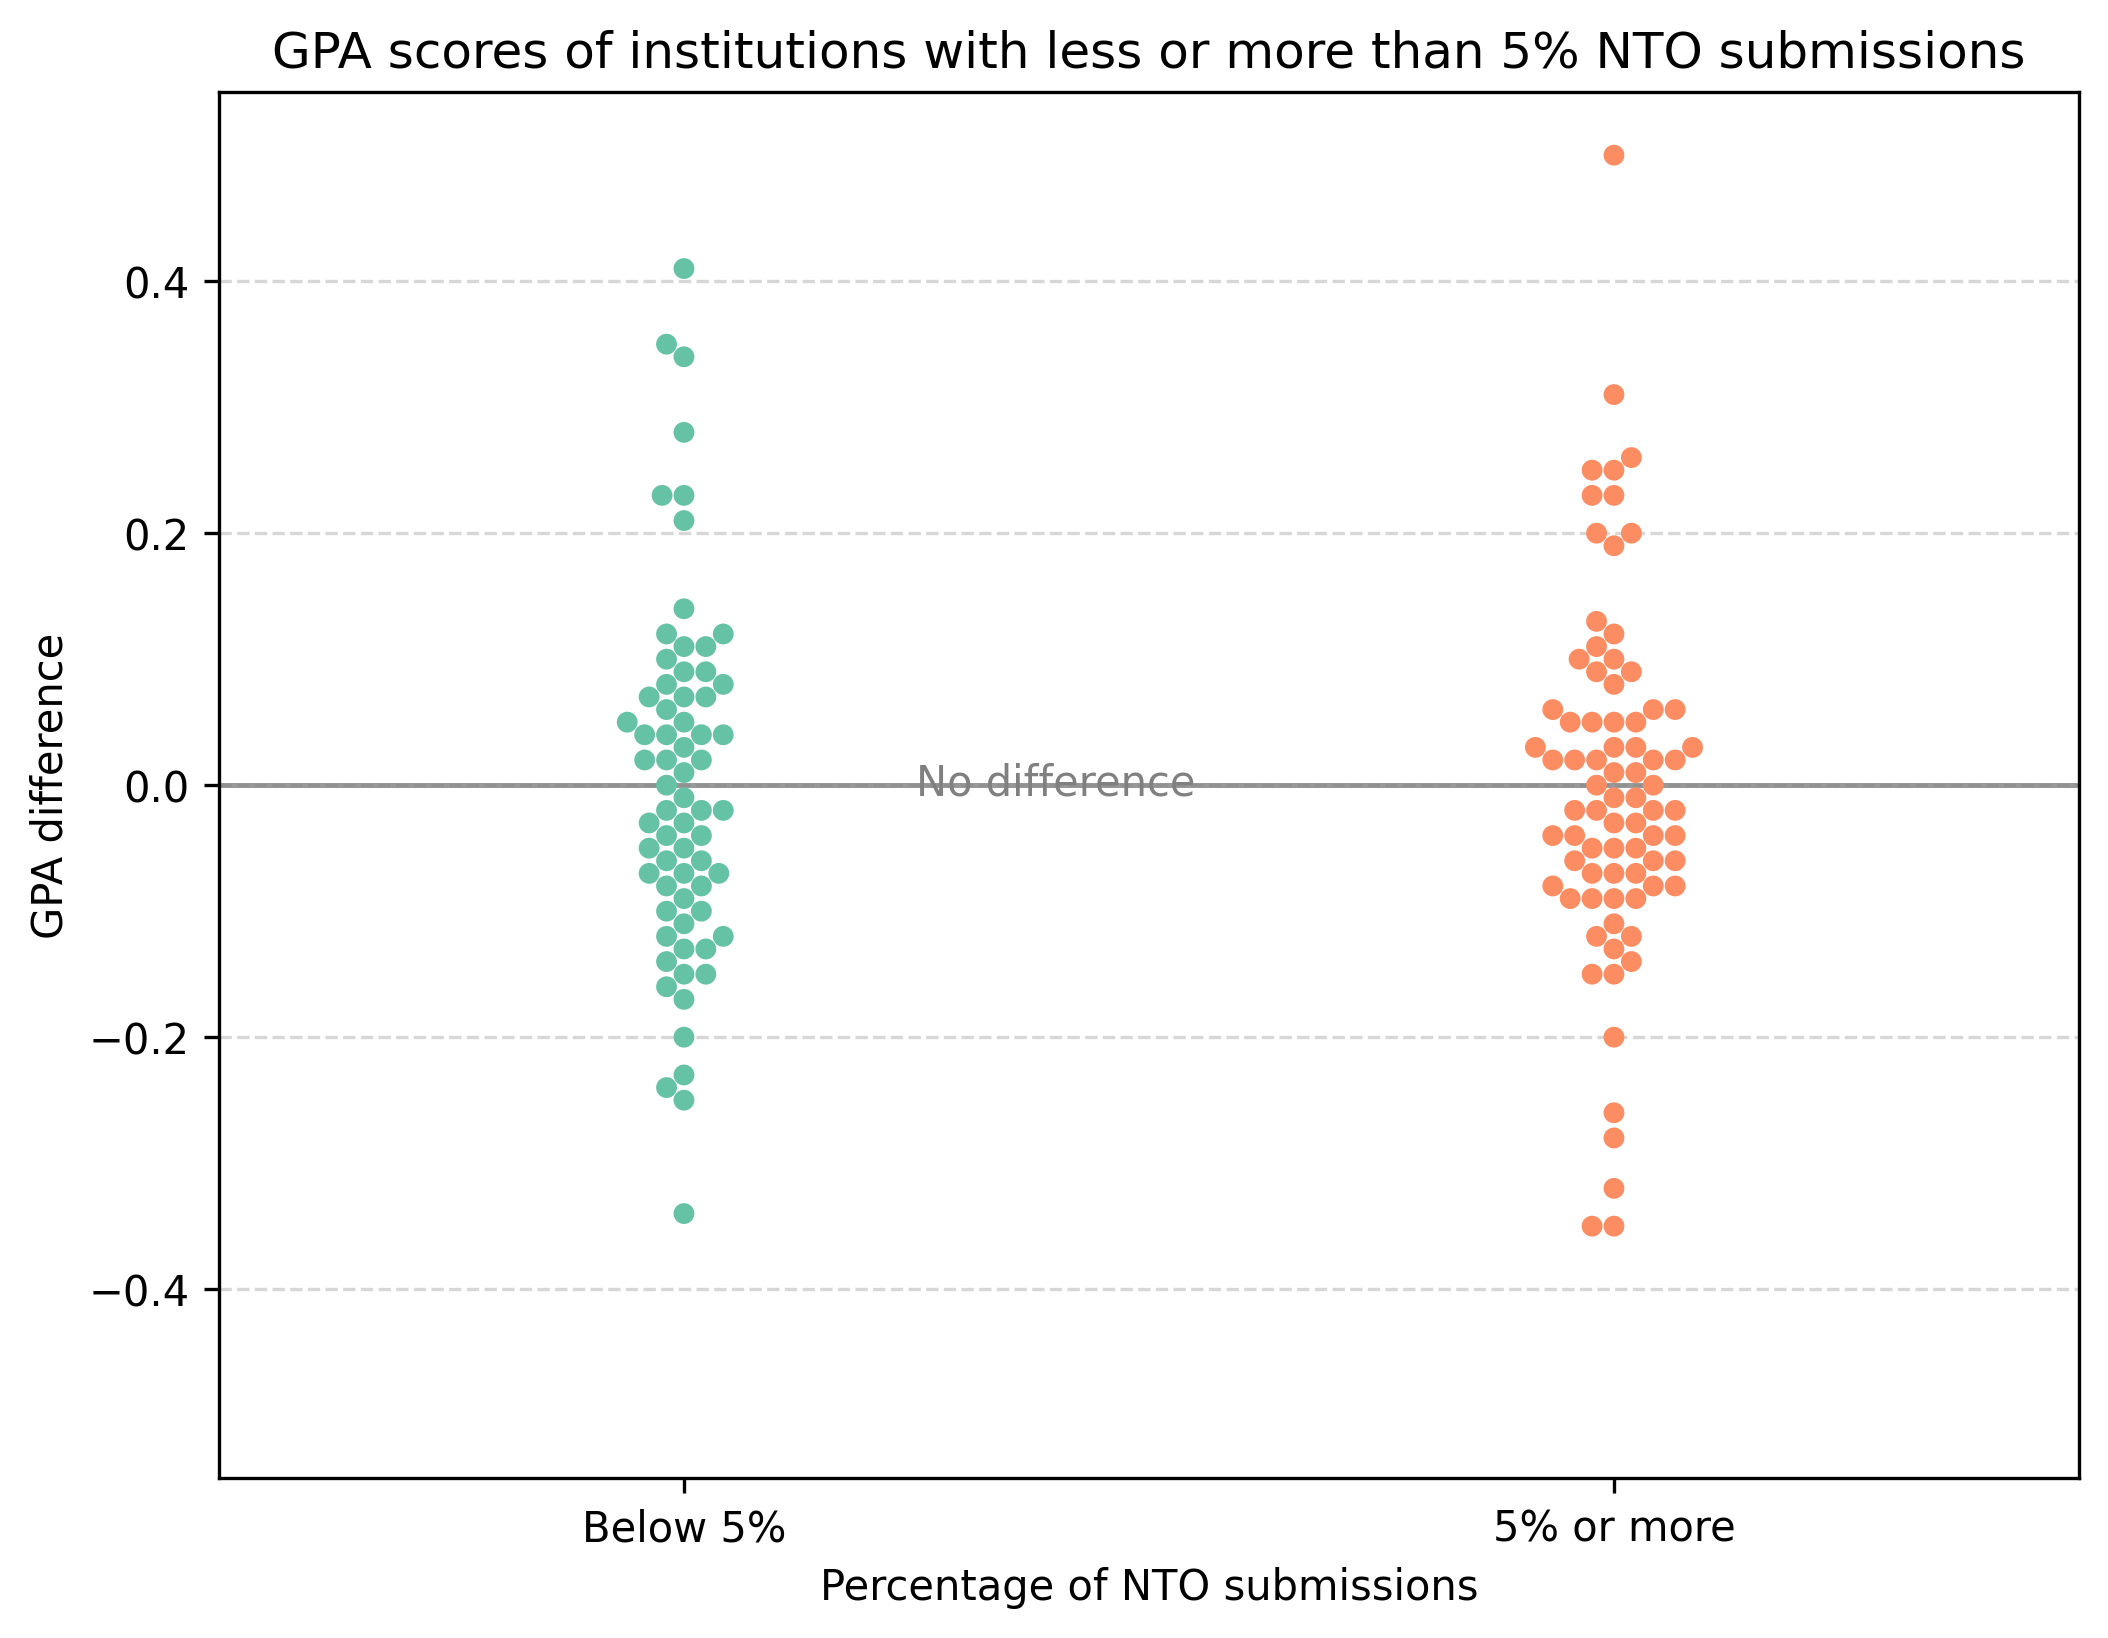
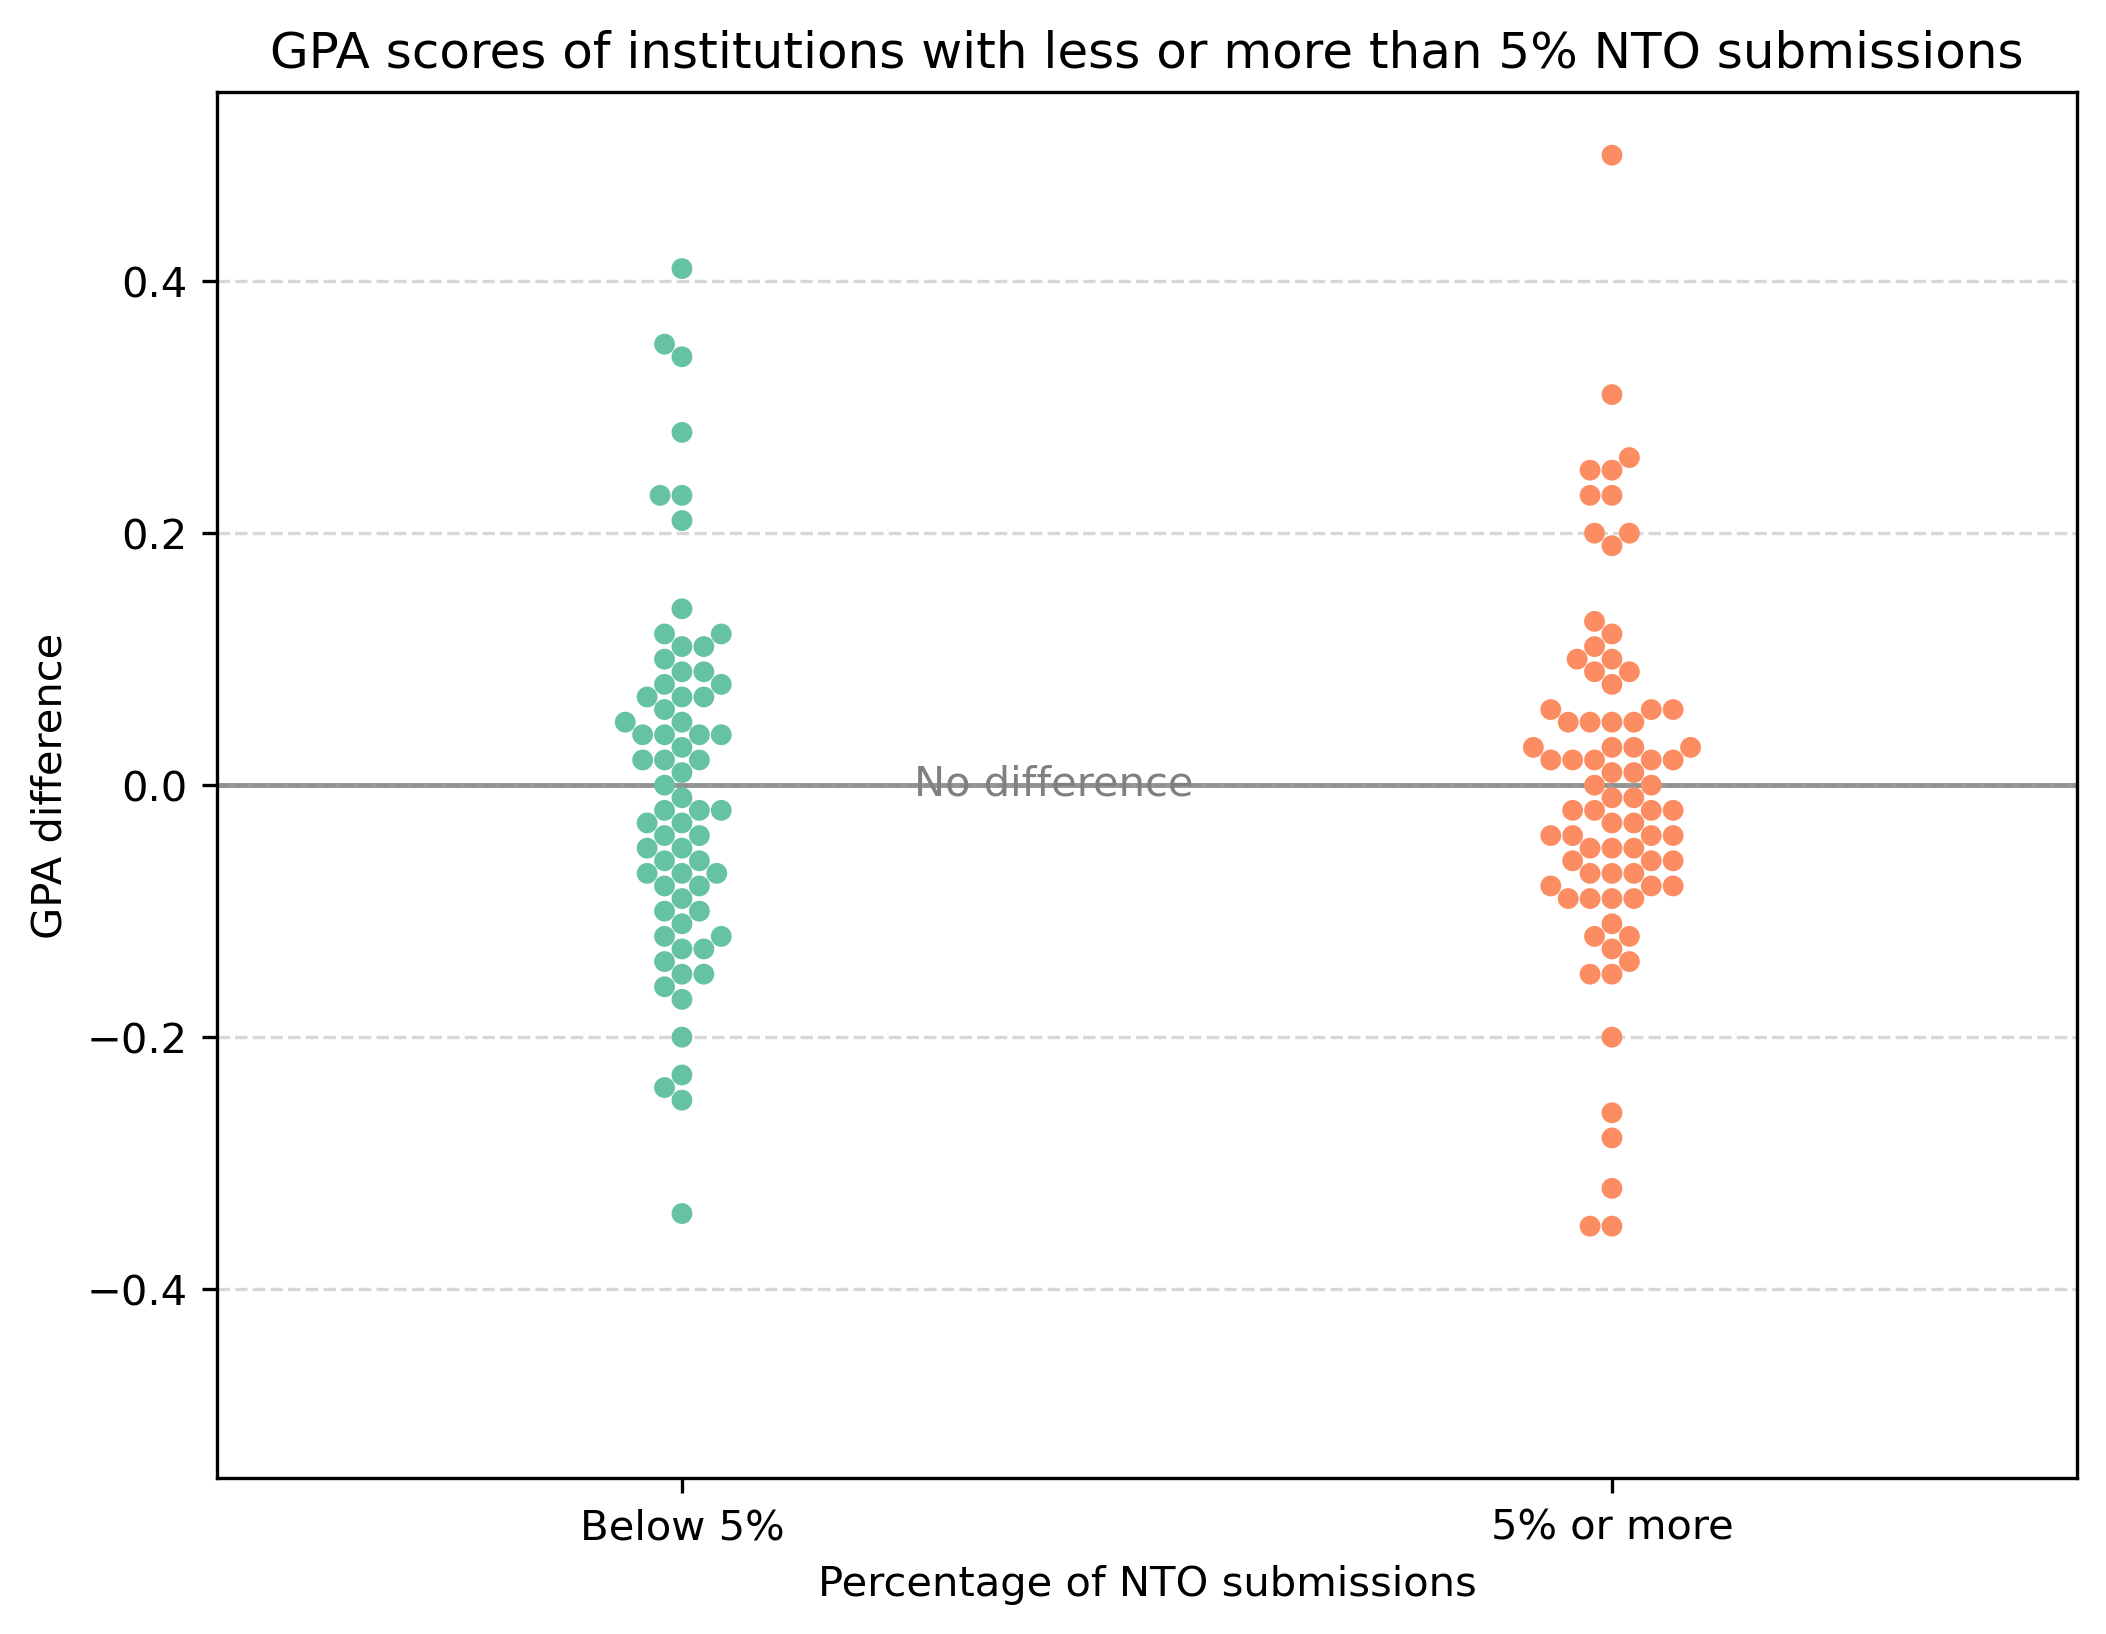
Adding plotting file and datapoints

diff --git a/plot_beeswarm.py b/plot_beeswarm.py
@@ -1,0 +1,33 @@
+import pandas as pd
+import matplotlib.pyplot as plt
+import seaborn as sns
+
+# Load the data
+df = pd.read_csv('GPA_difference_scores.csv')
+x_col = 'NTO_percentage'
+y_col = 'GPA_difference'
+
+percentage = 5
+
+# If percentages are stored as strings convert to float.
+if df[x_col].dtype == 'object':
+    df[x_col] = df[x_col].astype(str).astype(float)
+
+# Create the grouping category
+df['NTO_Group'] = df[x_col].apply(lambda x: f'Below {percentage}%' if x < percentage else f'{percentage}% or more')
+    
+# Plot
+plt.figure(figsize=(8, 6))
+sns.swarmplot(x='NTO_Group', y=y_col, data=df, hue='NTO_Group', palette='Set2', legend=False)
+
+# Add horizontal line at 0 and label it
+plt.axhline(0, color='gray', linestyle='-', linewidth=1.2, alpha=0.8)
+plt.text(0.25, -0.015, 'No difference', fontsize=10, color='gray', va='bottom', ha='left')
+
+plt.title(f'GPA scores of institutions with less or more than {percentage}% NTO submissions')
+plt.xlabel('Percentage of NTO submissions')
+plt.ylabel('GPA difference')
+plt.ylim(-0.55, 0.55)
+plt.grid(axis='y', linestyle='--', alpha=0.5)
+plt.savefig(f'beeswarm_diagram_{percentage}.png', dpi=300, bbox_inches='tight')
+plt.show()
